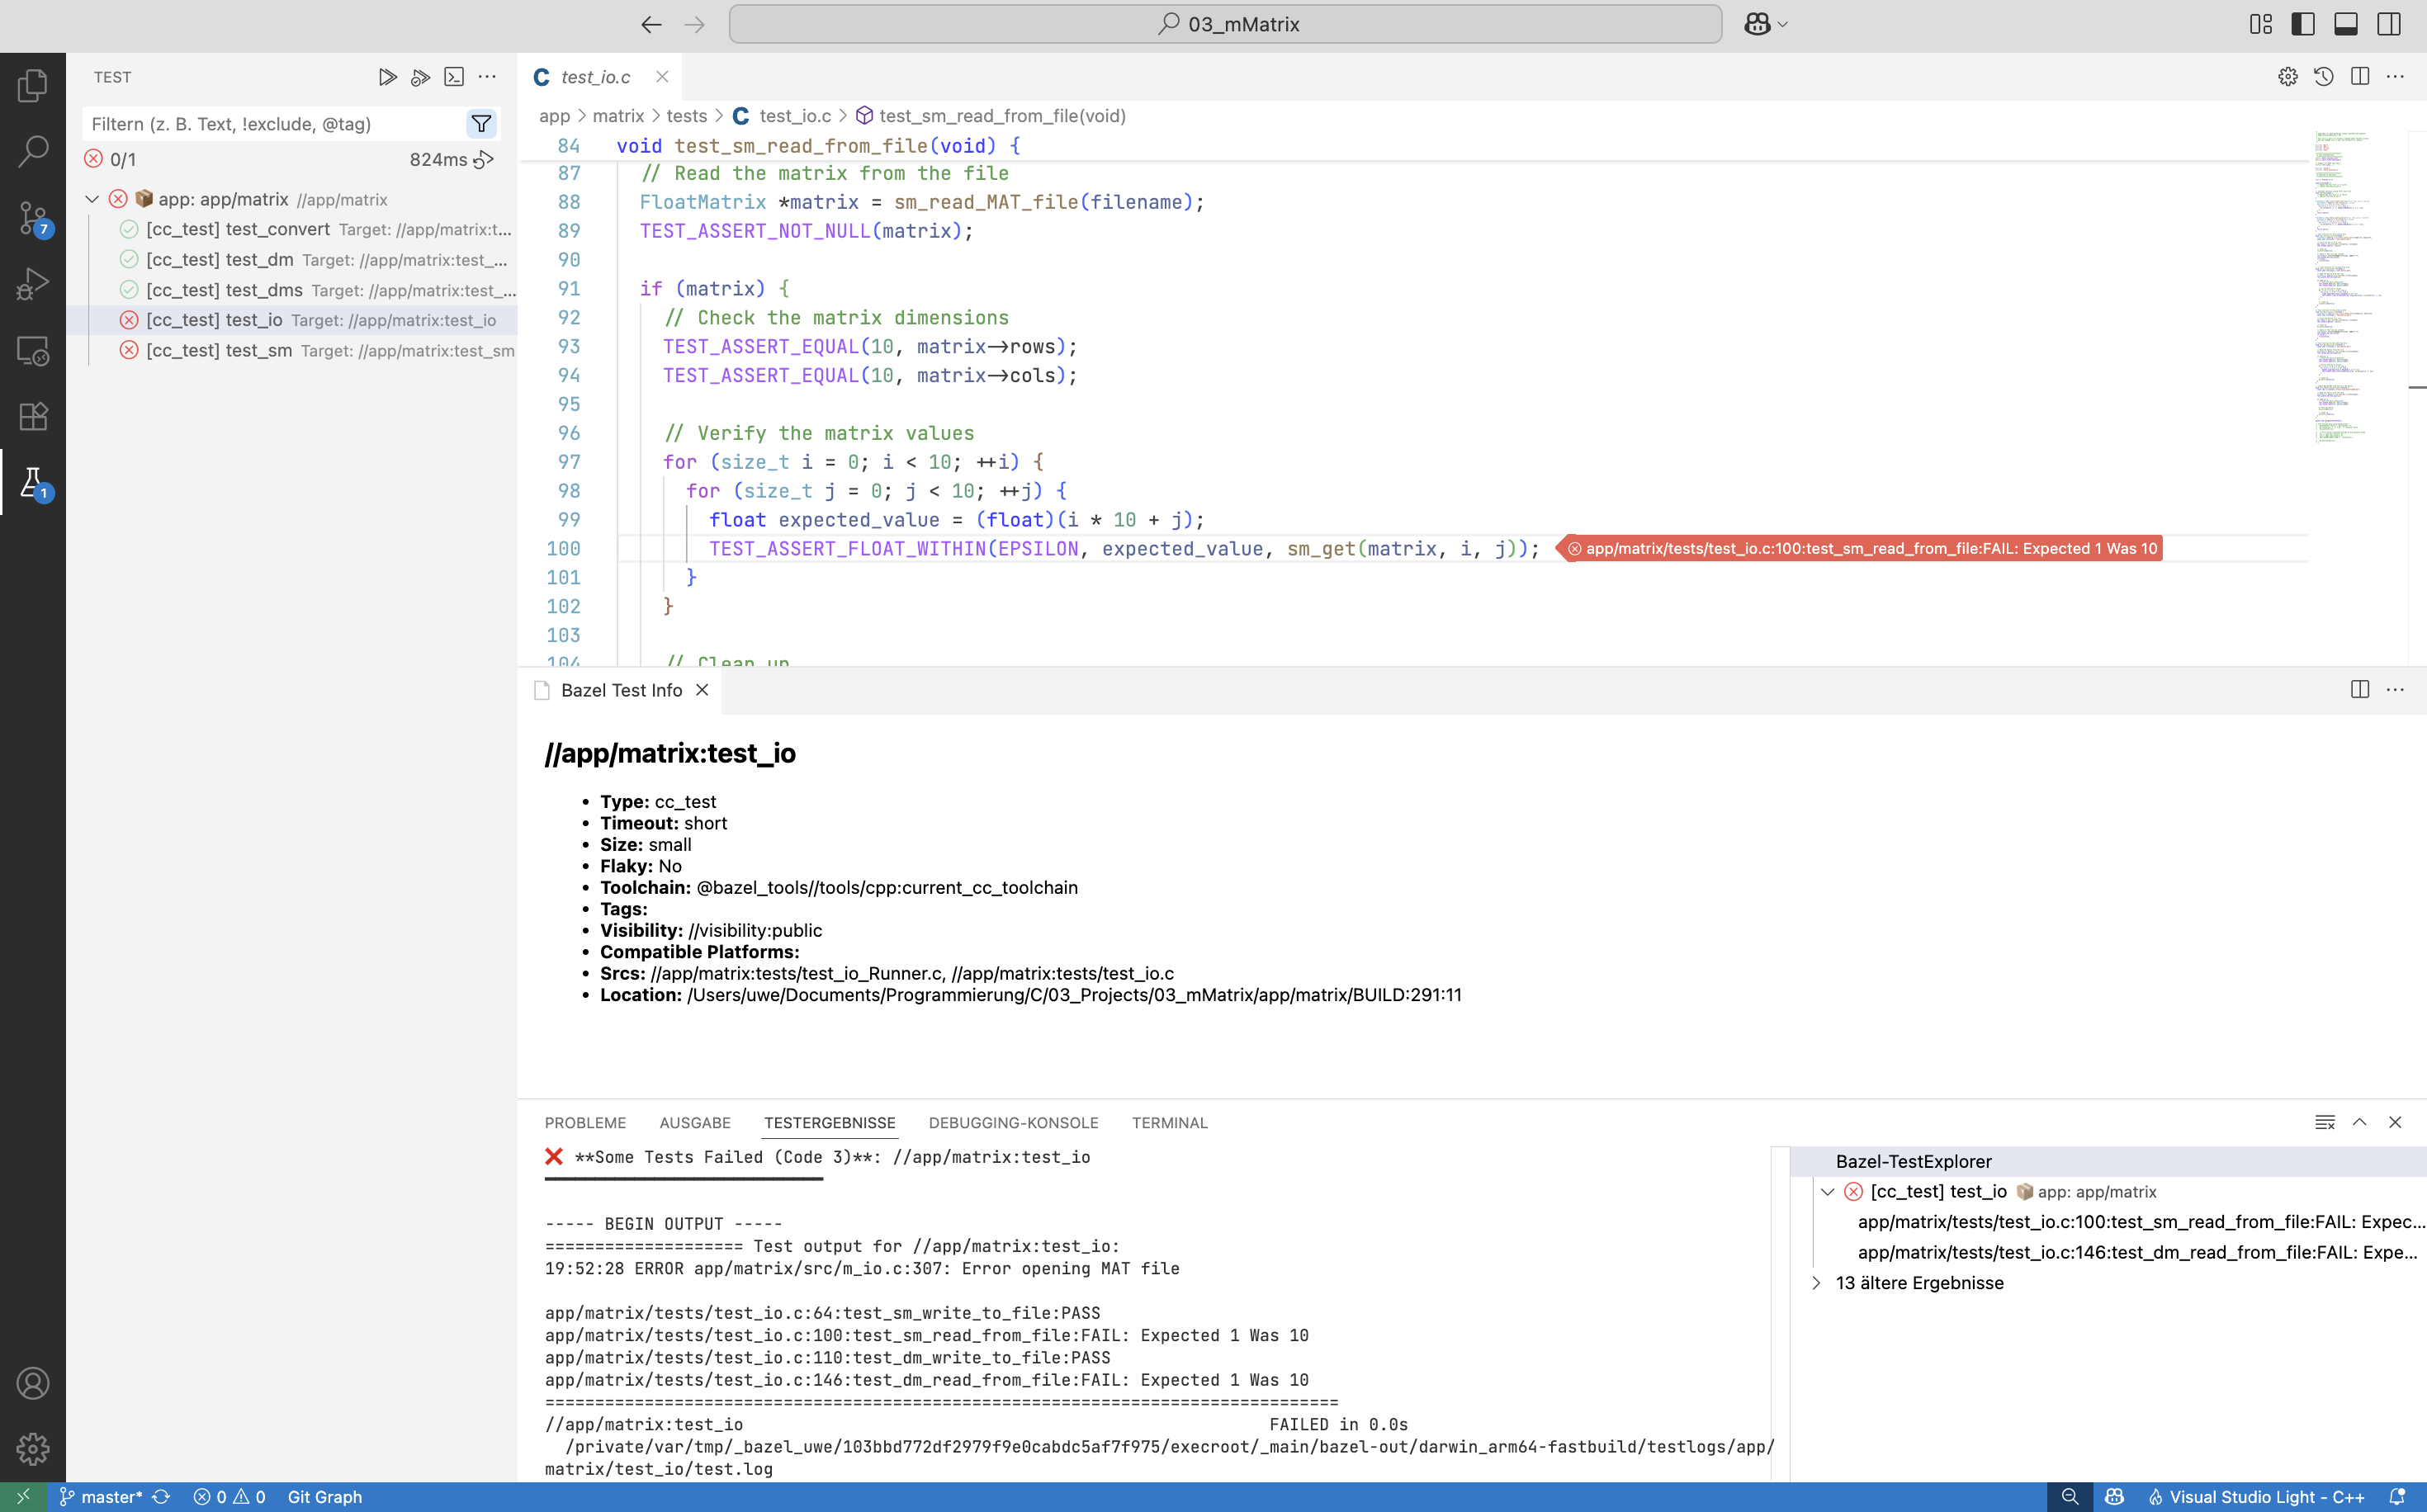
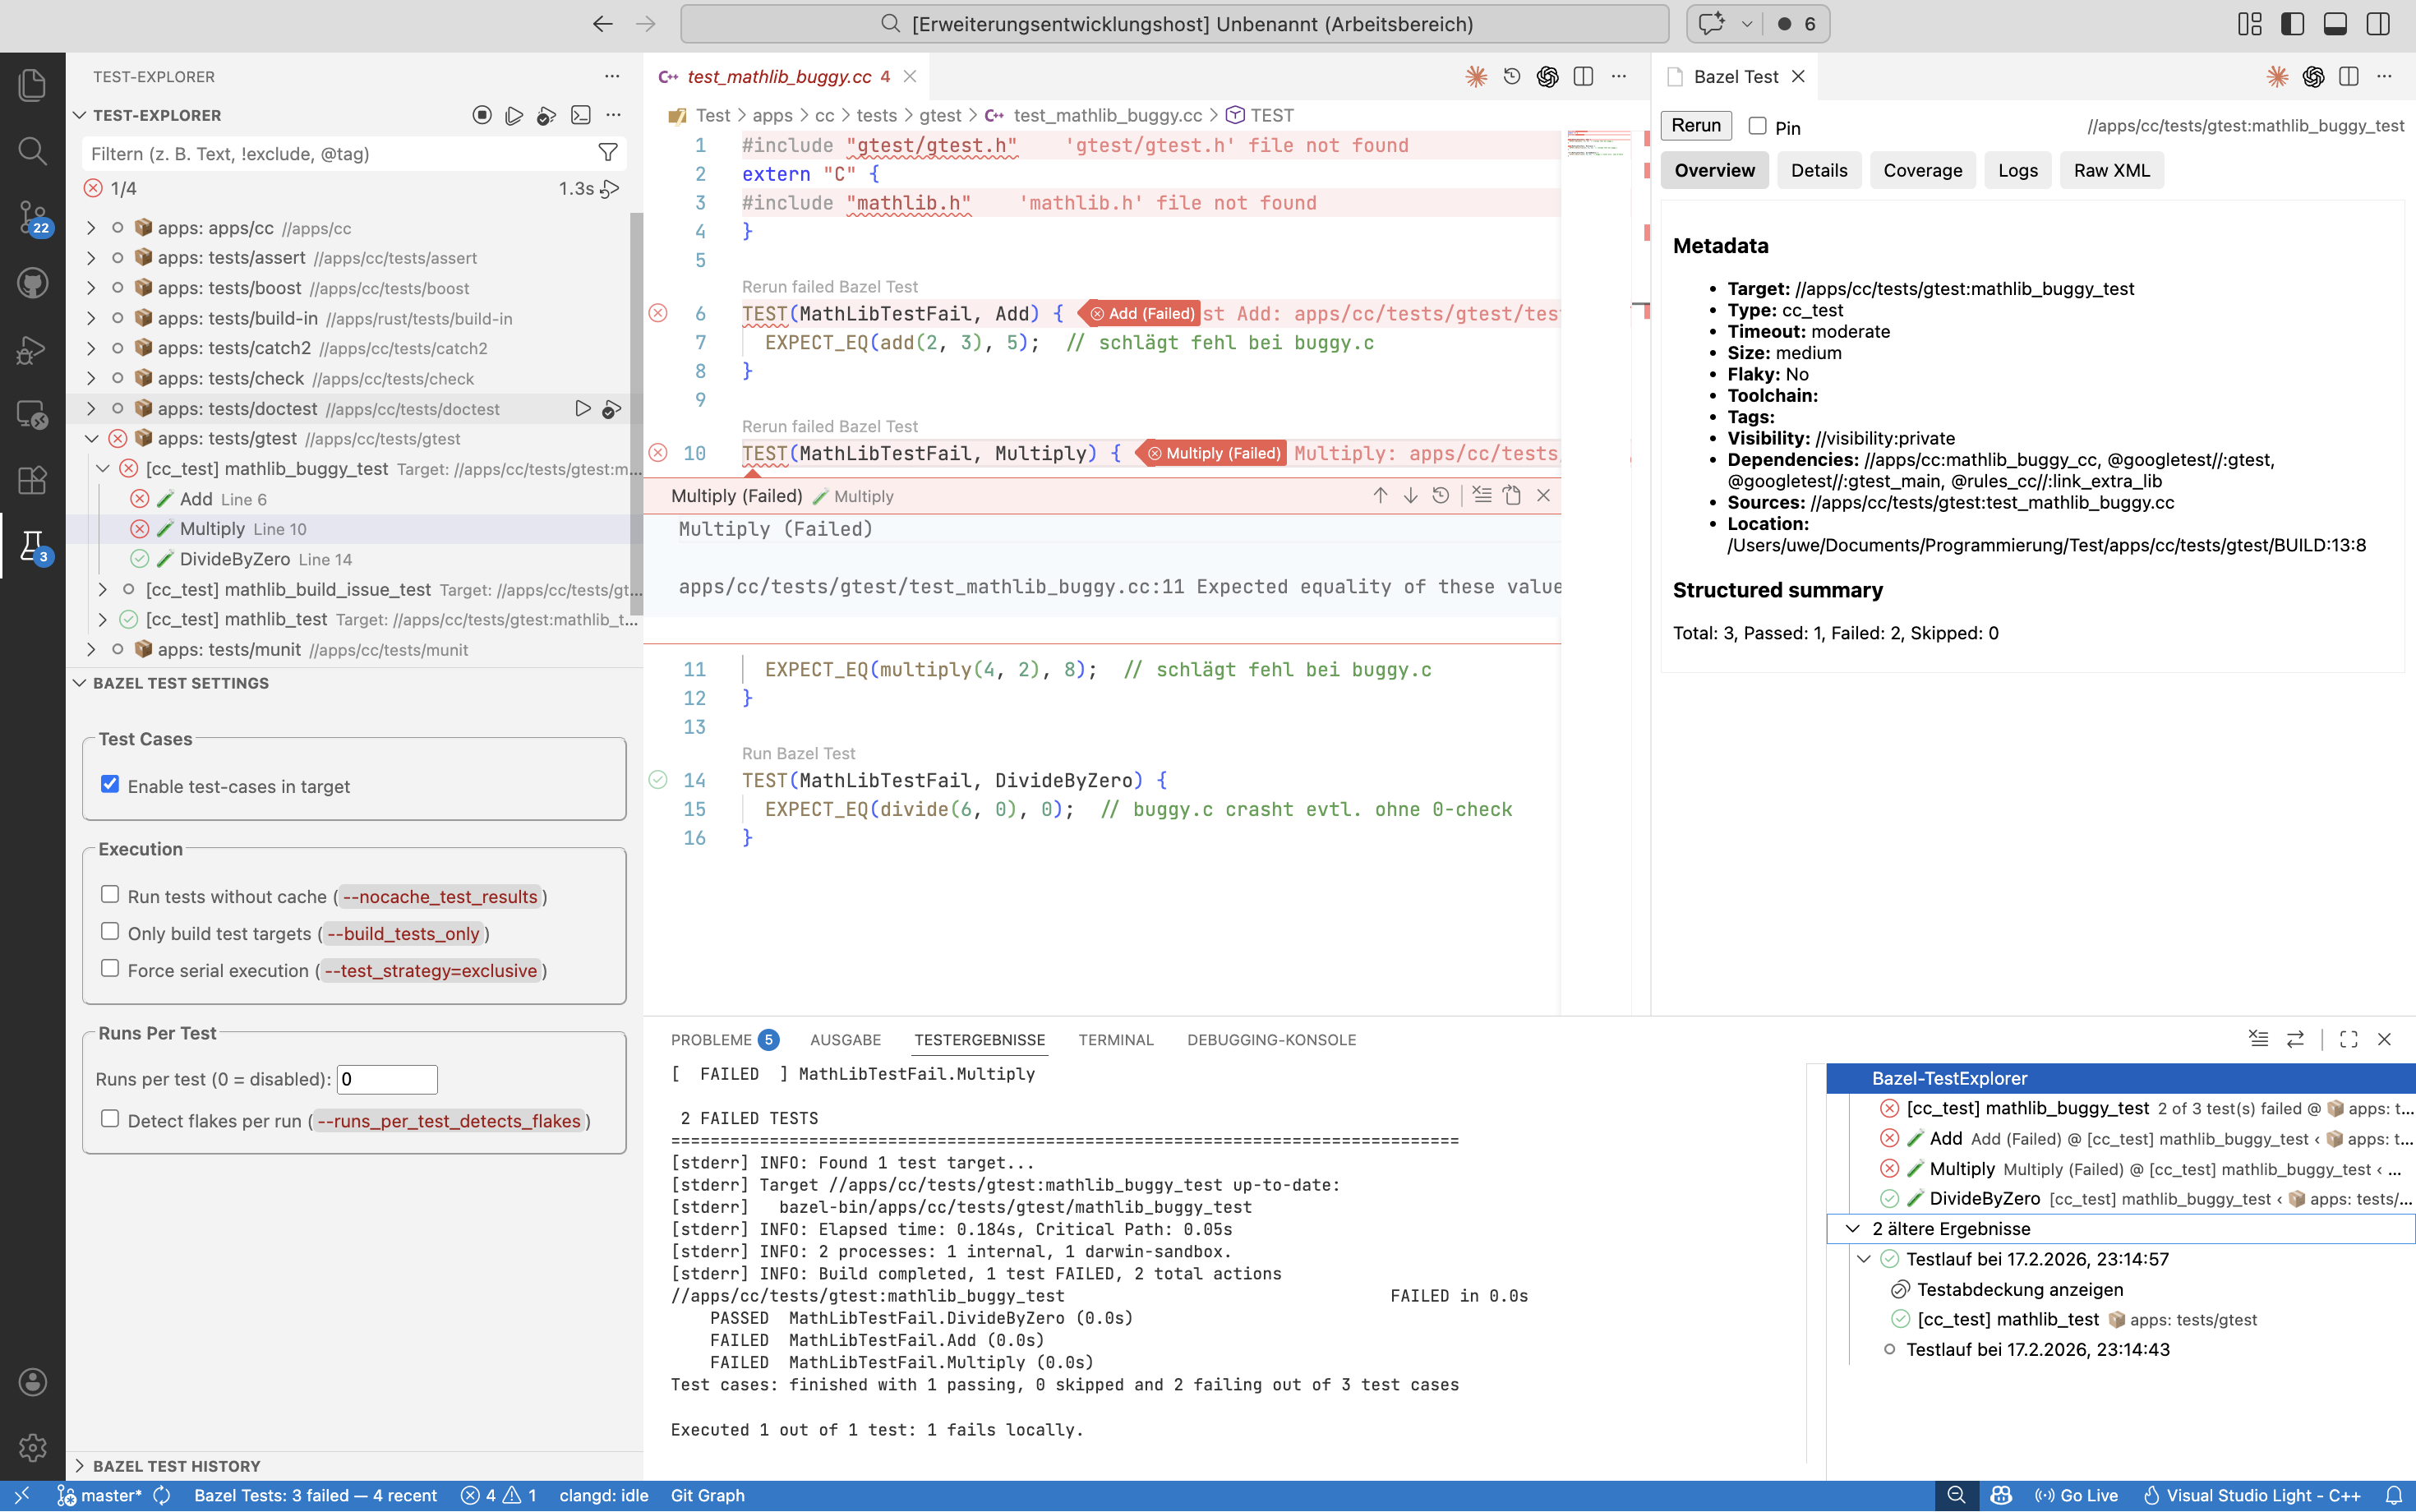
docs: update coverage remarks and add additional tips for C/C++ setup

diff --git a/README.md b/README.md
@@ -28,12 +28,20 @@ Uses `bazel query`, `bazel test`, and `bazel coverage`, integrated with the VS C
 ## Screenshot
 ![Example](images/Example_TestRun.png)
 
-## Remarks
-- `c++filt` / `rustfilt` should be available in `PATH` for demangled names in coverage.
-- `--instrumentation_filter=.*` can be slow in large repositories. Adjust this filter in settings to match your source paths (e.g., `--instrumentation_filter="app/*"` or `--instrumentation_filter="//src/..."`).
-- `--combined_report=lcov` creates a central `bazel-out/_coverage/_coverage_report.dat` for easier coverage aggregation. If this file is empty, check that your instrumentation filter matches your source files.
-- The extension prioritizes `coverage.dat` over `baseline_coverage.dat` (which is often empty).
-- Experimental test.xml parsing can be slow or incompatible with some frameworks.
+## Remarks to coverage:
+To get a working coverage (with C/C++) is sometimes annoying.
+Here some tipps:
+- MODULE.bazel.: 
+  - use `bazel_dep(name = "toolchains_llvm", version = "1.6.0")` and `llvm_version = "19.1.0"` or newer.
+- .bazelrc: 
+  - `--combined_report=lcov` creates a central `bazel-out/_coverage/_coverage_report.dat` for easier coverage aggregation.
+  -  `--instrumentation_filter=.*` can be slow in large repositories. Adjust this filter in settings to match your source paths (e.g. `--instrumentation_filter="//src/..."`).
+  -  set `coverage --experimental_use_llvm_covmap` and `coverage --experimental_generate_llvm_lcov`
+  - on macOS set `coverage --copt=-fcoverage-compilation-dir=.`
+- System:
+  - `c++filt` / `rustfilt` should be available in `PATH` for demangled names in coverage.
+
+Coverage should be working in terminal!! If not the extension can not fix this.
 
 ## License
 MIT License